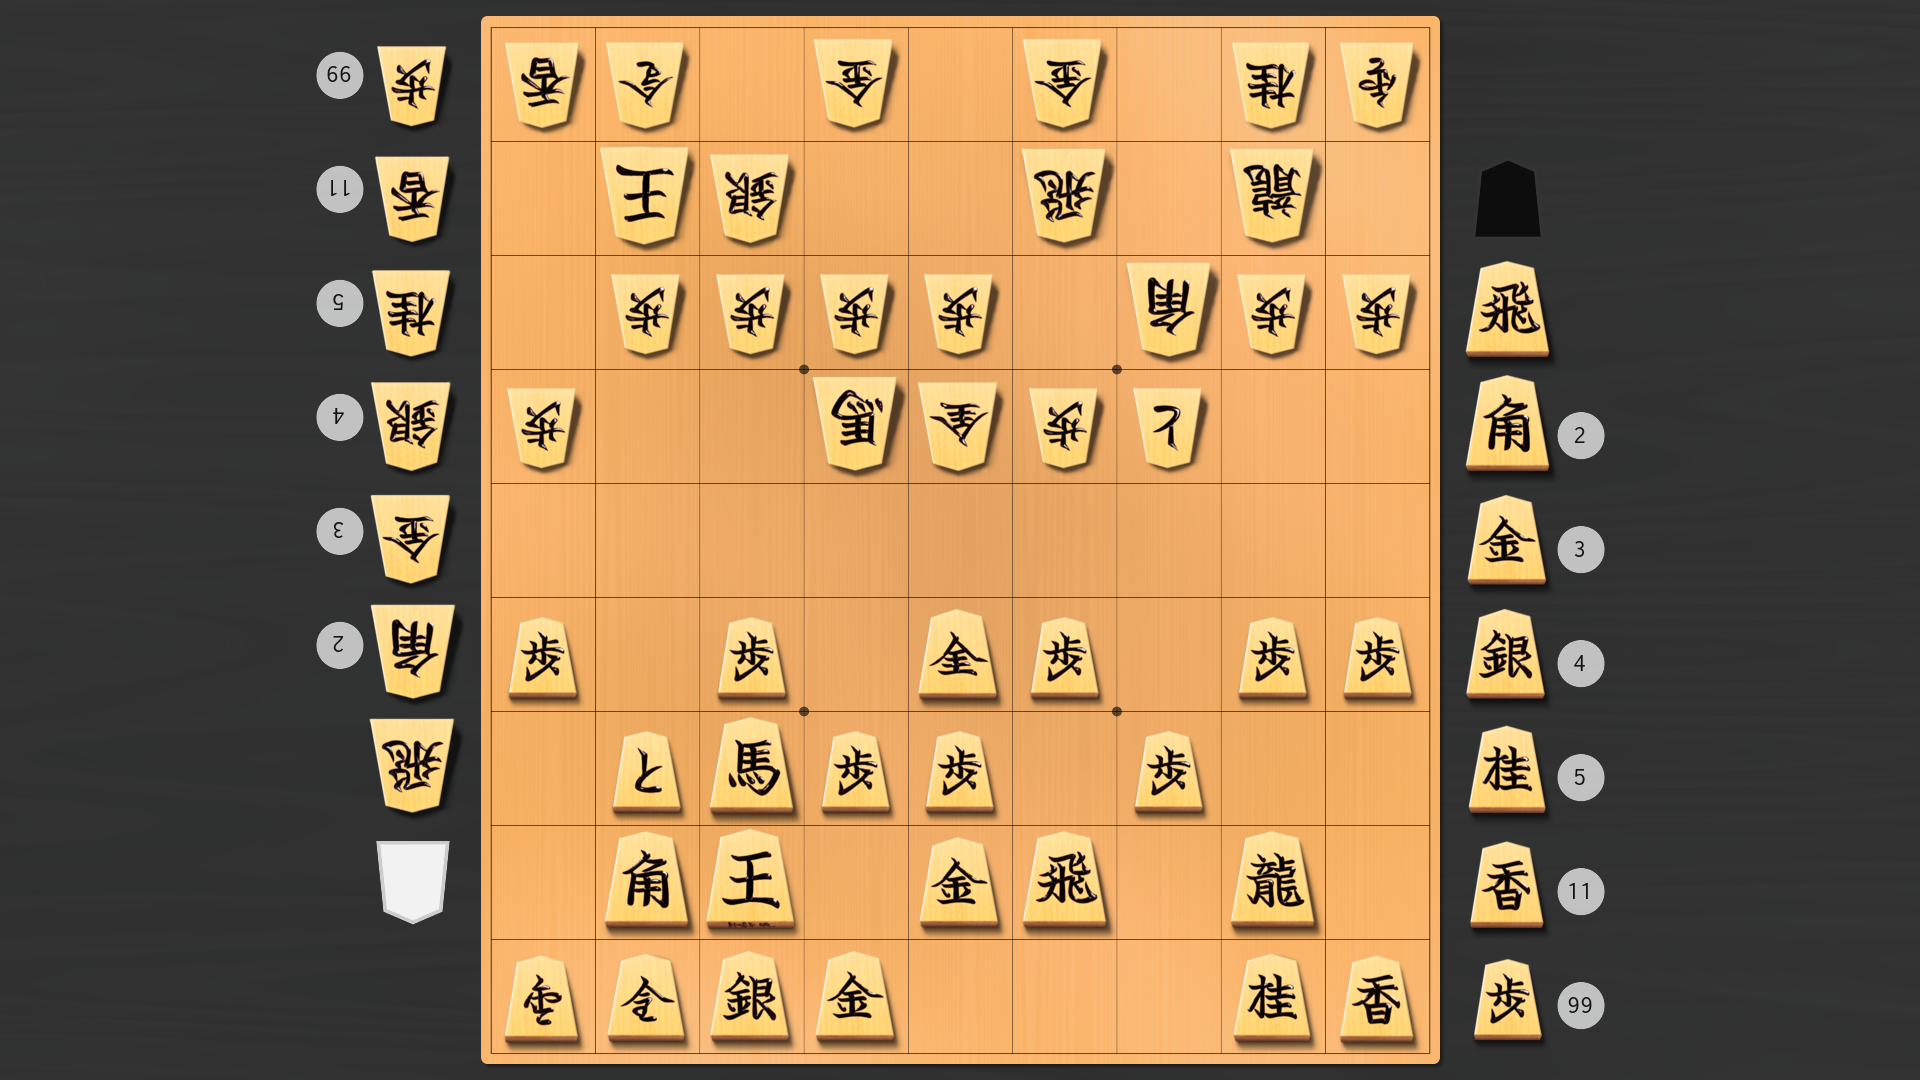
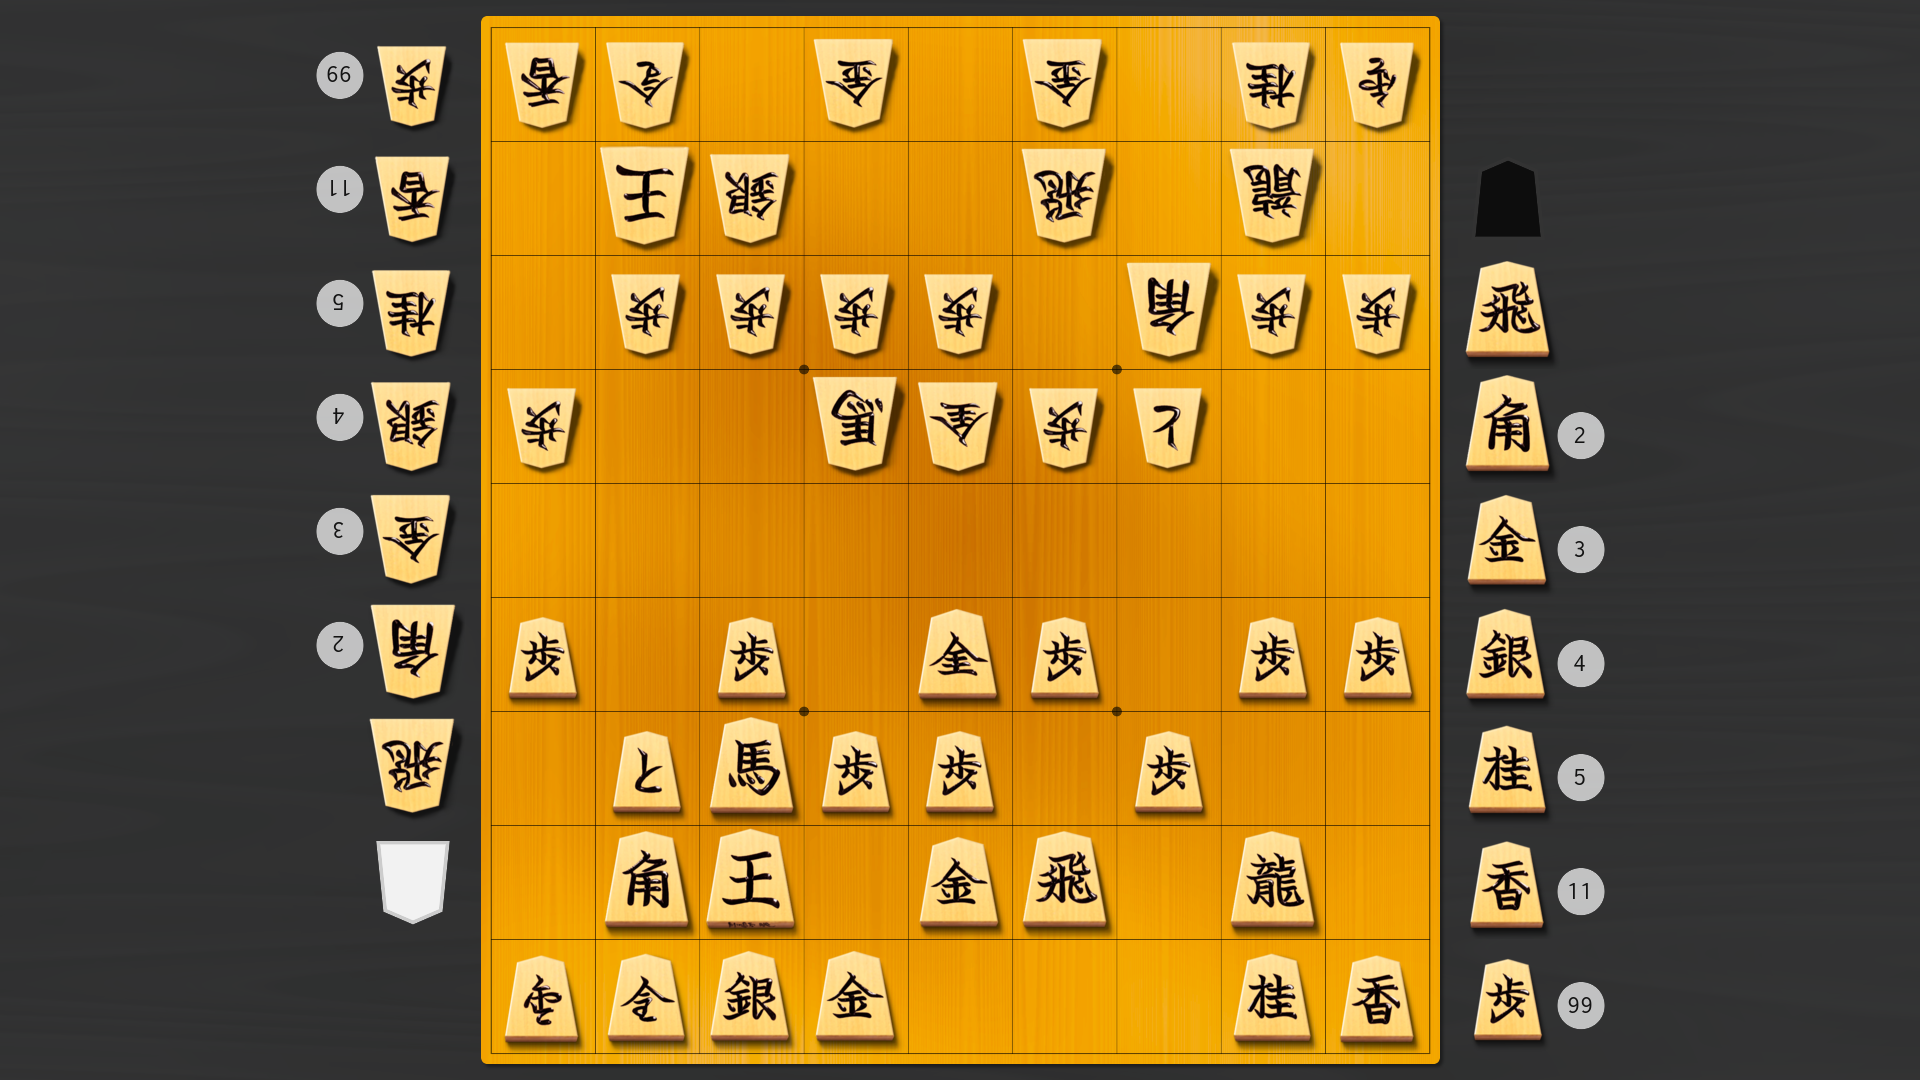
[feat] 盤画像飴色化

diff --git a/lib/bioshogi/image_renderer/color_theme_info.rb b/lib/bioshogi/image_renderer/color_theme_info.rb
@@ -36,8 +36,8 @@ module Bioshogi
 
       def is_color_theme_real
         is_color_theme_shogi_extend.merge({
-            :fg_file => "#{__dir__}/../assets/images/board/board1.png",
-            :bg_file => "#{__dir__}/../assets/images/background/background1.png",
+            :fg_file => "#{__dir__}/../assets/images/board/board_a.png",
+            :bg_file => "#{__dir__}/../assets/images/background/background_a.png",
             :piece_image_key => "Portella",
           })
       end
